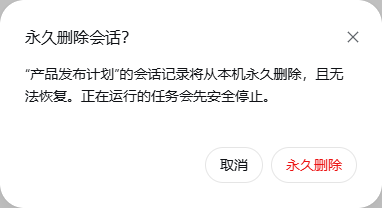
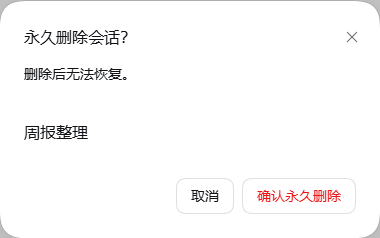
docs: refresh screenshots on DeepSeek Harness 0.2.0-rc.2

diff --git a/README.en.md b/README.en.md
@@ -56,7 +56,7 @@ For Agent installation, use the fixed-version [AGENTS.md](https://raw.githubuser
 Select the archive icon in the sidebar header to browse archived sessions, search by name, workspace, or conversation, and select **Restore** to return a session to its original workspace. Search is limited to current user and assistant messages in archived sessions.
 
 <p align="center">
-  <img src="https://raw.githubusercontent.com/WSL043/dsh-chat-manager/main/docs/assets/archive-manager.en.png" width="414" alt='DeepSeek Harness native archive page with search and restore'>
+  <img src="https://raw.githubusercontent.com/WSL043/dsh-chat-manager/main/docs/assets/archive-manager.en.png" width="600" alt='DeepSeek Harness native archive page with search and restore'>
   <br><sub>Native DSH archive page</sub>
 </p>
 
@@ -67,7 +67,7 @@ Stock DSH keeps its official archive page and adds the Delete session menu actio
 Choose the red **Delete session** action beside a session, check its name, and confirm **Delete permanently** in the dialog—or cancel.
 
 <p align="center">
-  <img src="https://raw.githubusercontent.com/WSL043/dsh-chat-manager/main/docs/assets/confirm-delete.en.png" width="414" alt='DSH second confirmation dialog for permanent session deletion'>
+  <img src="https://raw.githubusercontent.com/WSL043/dsh-chat-manager/main/docs/assets/confirm-delete.en.png" width="382" alt='DSH second confirmation dialog for permanent session deletion'>
   <br><sub>Permanent deletion cannot be undone; the dialog identifies the target session.</sub>
 </p>
 

diff --git a/README.md b/README.md
@@ -56,7 +56,7 @@ dsh plugin --profile web add dsh-chat-manager@1.5.4
 点击侧边栏标题处的归档图标，可浏览归档并按会话名、工作区或聊天内容搜索；点击 **恢复** 将会话放回原工作区。搜索仅涉及已归档会话中的当前用户和助手消息。
 
 <p align="center">
-  <img src="https://raw.githubusercontent.com/WSL043/dsh-chat-manager/main/docs/assets/archive-manager.png" width="414" alt='DeepSeek Harness 原生归档界面，支持搜索与恢复'>
+  <img src="https://raw.githubusercontent.com/WSL043/dsh-chat-manager/main/docs/assets/archive-manager.png" width="600" alt='DeepSeek Harness 原生归档界面，支持搜索与恢复'>
   <br><sub>DSH 原生归档界面</sub>
 </p>
 
@@ -67,7 +67,7 @@ dsh plugin --profile web add dsh-chat-manager@1.5.4
 从目标会话旁的原生菜单选择红色 **删除会话**，核对名称后在弹窗中再次确认 **永久删除**，或取消。
 
 <p align="center">
-  <img src="https://raw.githubusercontent.com/WSL043/dsh-chat-manager/main/docs/assets/confirm-delete.png" width="414" alt='DSH 永久删除会话的二次确认弹窗'>
+  <img src="https://raw.githubusercontent.com/WSL043/dsh-chat-manager/main/docs/assets/confirm-delete.png" width="382" alt='DSH 永久删除会话的二次确认弹窗'>
   <br><sub>永久删除无法撤销；确认弹窗会明确显示目标会话</sub>
 </p>
 
